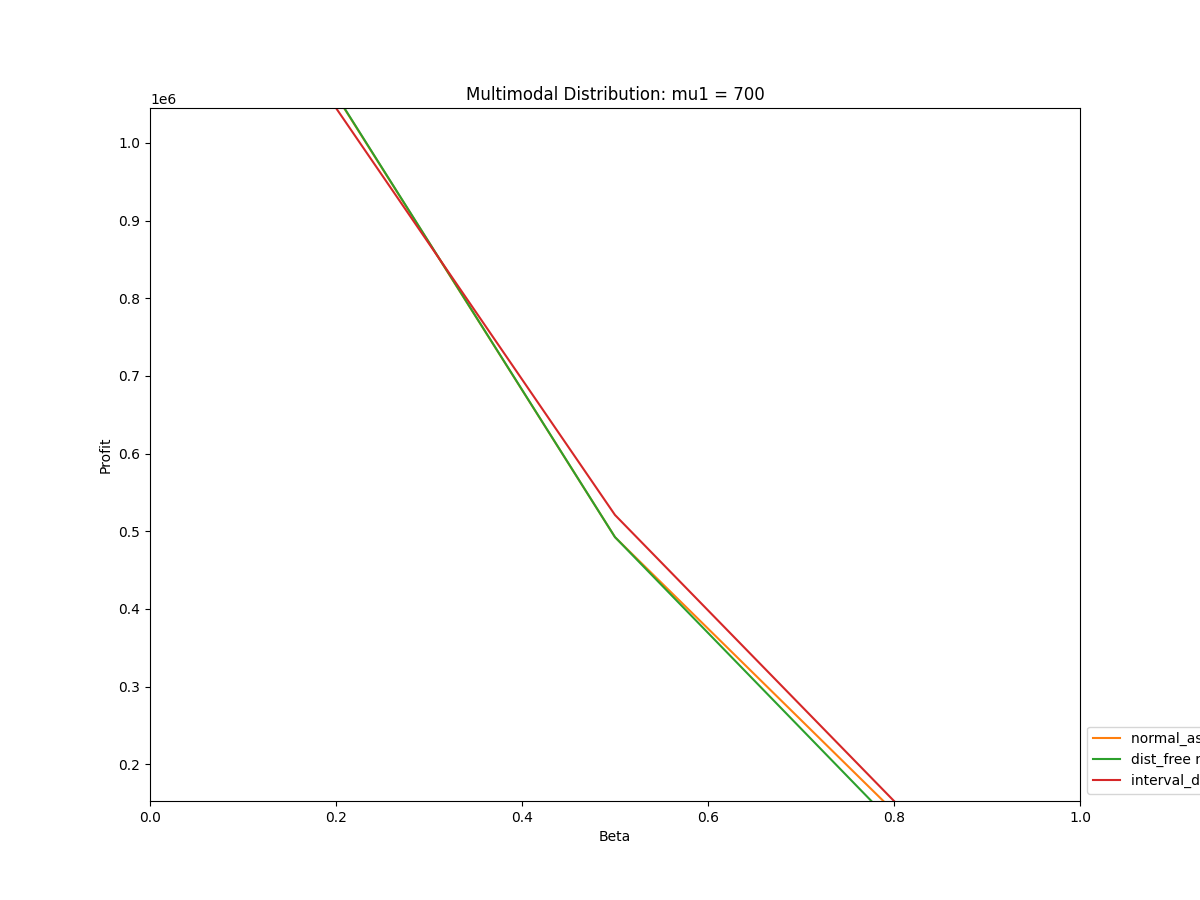
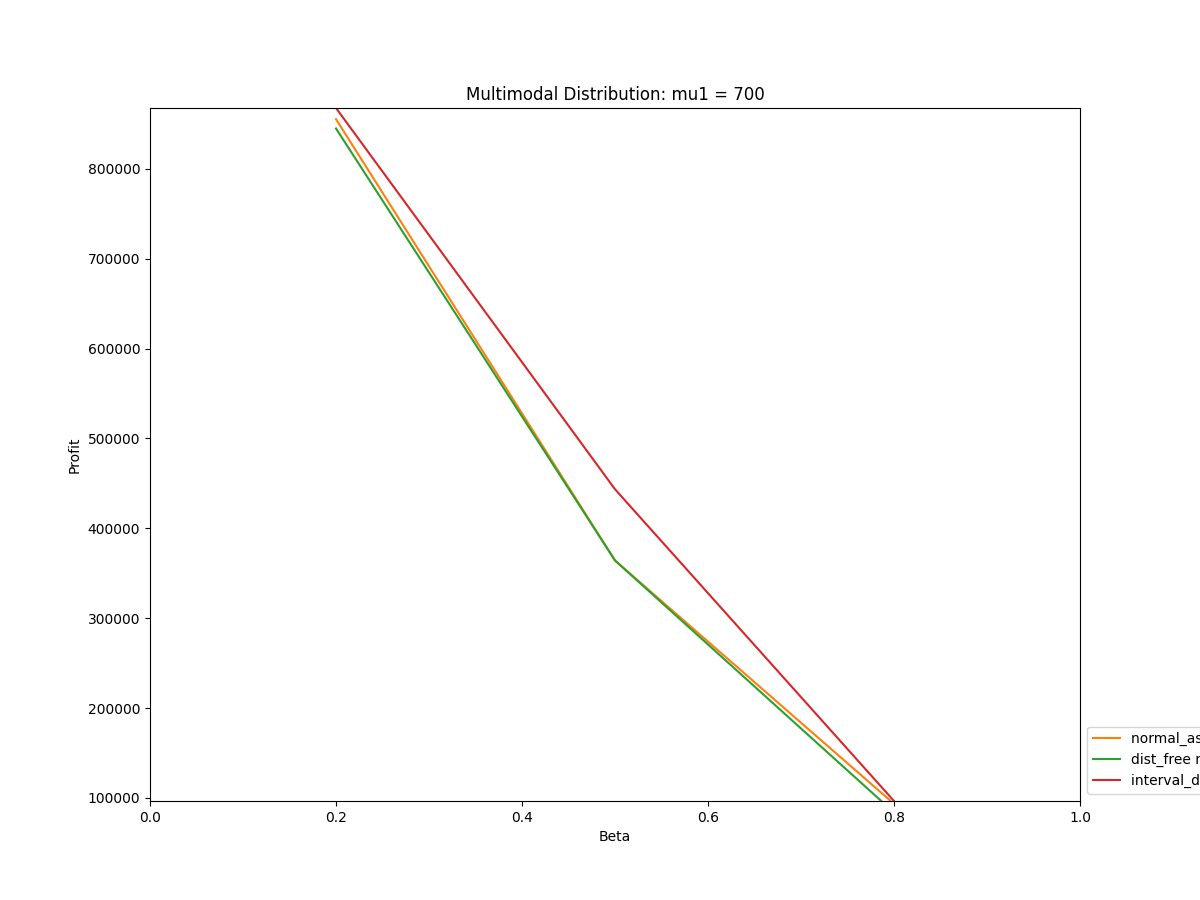
average over Interval

diff --git a/policy.py b/policy.py
@@ -6,37 +6,30 @@ import statsmodels.formula.api as smf
 #d: demand(pd.series)
 
 def interval_div_q(d, p, c, s):
-    def cost(q, d, p, c, s):
-        underage_cost = p - c
-        overage_cost = c - s
-        cost = max((q - d), 0) * overage_cost + max((d - q), 0) * underage_cost
-        return cost
-
-    def worst_interval_cand(d, p, c, s):
-        I = int(int(d.shape[0]) * 0.3)  #TODO I = int(np.log(emp_dist.shape[0])) 등 실험
-        se = [pd.qcut(d, I, duplicates='drop').values[i] for i in range(I)]
-        worst_cand_lst = list()
-        for interval in se:
+    def E_cost_I(q, se_I, p, c, s):
+        cost = 0
+        for interval in se_I:
             start, end = int(interval.left), int(interval.right)
-            mid = ((c - s) / (p - s)) * start + ((p - c) / (p - s)) * end
-            worst_cand_lst.append([start, mid, end])
-        return np.unique(worst_cand_lst), se
+            if q > end:
+                cost += (q - start) * (c -s)
+            elif q < start:
+                cost += (end - q) * (p - c)
+            else:
+                cost += max((q - start) * (c -s), (end - q) * (p - c))
+        return cost / len(se_I)
 
-    def E_cost_D(q, d, p, c, s):
-        return np.mean([cost(q, i, p, c, s) for i in d])
+    I = int(int(d.shape[0]) * 0.3)  # TODO I = int(np.log(emp_dist.shape[0])) 등 실험
+    se = [pd.qcut(d, I, duplicates='drop').values[i] for i in range(I)]
 
-    def min_E_worst_q(d, p, c, s):
-        opt_q = 0
-        opt_cost = np.inf
-        cand = worst_interval_cand(d, p, c, s)[0]
-        for q in cand:
-            cand_cost = E_cost_D(q, d, p, c, s)
-            if opt_cost > cand_cost:
-                opt_cost = cand_cost
-                opt_q = q
-        return opt_q
+    worst_cand = dict()
+    for interval in se:
+        start, end = int(interval.left), int(interval.right)
+        mid = ((c - s) / (p - s)) * start + ((p - c) / (p - s)) * end
+        worst_cand[start] = E_cost_I(start, se, p, c, s)
+        worst_cand[mid] = E_cost_I(mid, se, p, c, s)
+        worst_cand[end] = E_cost_I(end, se, p, c, s)
 
-    return min_E_worst_q(d, p, c, s)
+    return min(worst_cand, key=worst_cand.get)
 
 
 def normal_ass_q(d, p, c, s):
